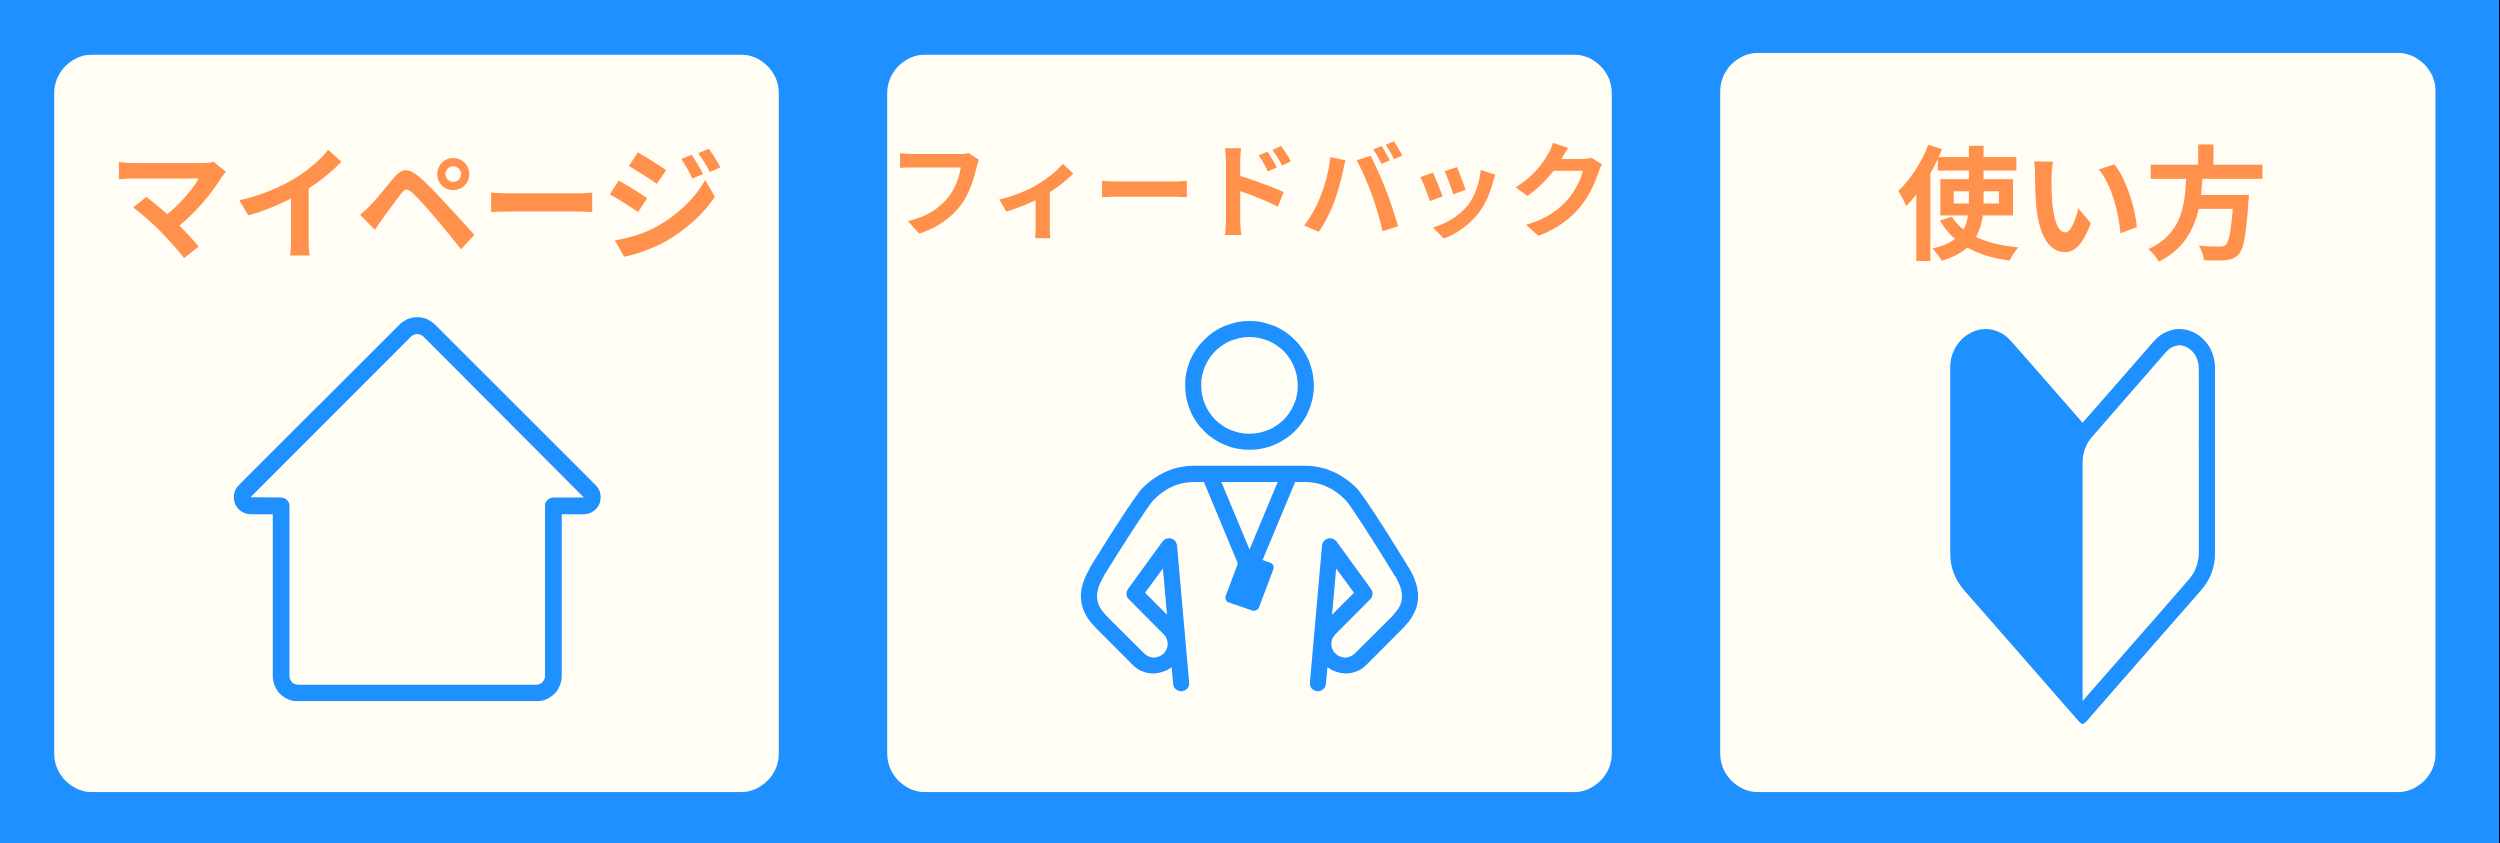
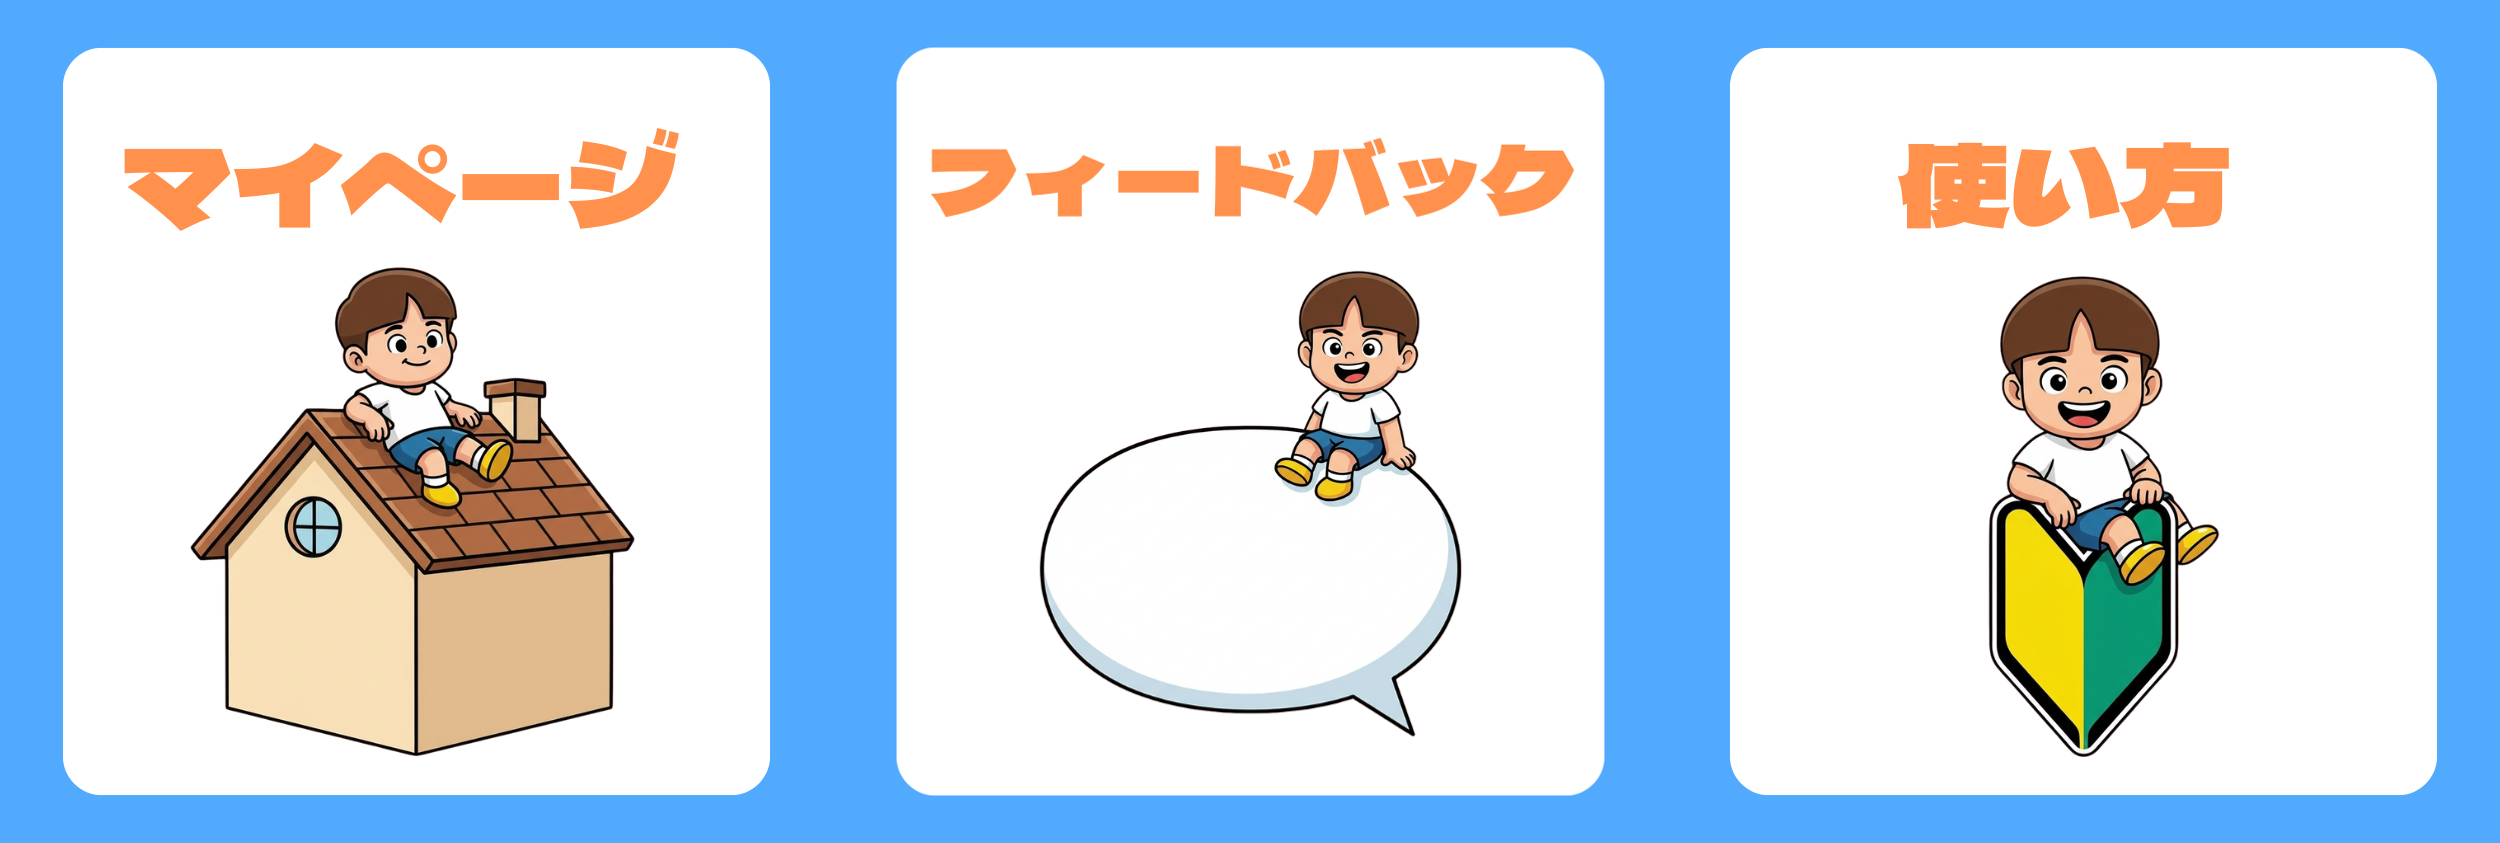
🎨 リッチメニューを新しいキャラクター画像に更新
- 3つの新しいキャラクター画像（マイページ、フィードバック、使い方）を使用
- 各ボタンサイズを正確に調整（833×843px, 834×843px, 833×843px）
- 青色のグラデーション背景を維持
- 画像生成スクリプトを追加

🤖 Generated with [Claude Code](https://claude.ai/code)

diff --git a/create-new-richmenu-with-characters.js b/create-new-richmenu-with-characters.js
@@ -1,0 +1,68 @@
+const sharp = require('sharp');
+const fs = require('fs');
+
+async function createNewRichMenuWithCharacters() {
+  try {
+    // リッチメニューのサイズ
+    const totalWidth = 2500;
+    const totalHeight = 843;
+    
+    // 各ボタンの幅（エリア設定に合わせる）
+    const button1Width = 833;  // マイページ
+    const button2Width = 834;  // フィードバック（1px多い）
+    const button3Width = 833;  // 使い方
+
+    console.log('📐 新しいリッチメニューサイズ:', { totalWidth, totalHeight });
+    console.log('📏 各ボタン幅:', { button1Width, button2Width, button3Width });
+
+    // 新しいキャラクター画像を適切なサイズでリサイズ
+    const button1Buffer = await sharp('/Users/toshimitsukotarou/Downloads/マイページ (6)/1.png')
+      .resize(button1Width, totalHeight, { fit: 'cover', position: 'center' })
+      .png()
+      .toBuffer();
+
+    const button2Buffer = await sharp('/Users/toshimitsukotarou/Downloads/マイページ (6)/2.png')
+      .resize(button2Width, totalHeight, { fit: 'cover', position: 'center' })
+      .png()
+      .toBuffer();
+
+    const button3Buffer = await sharp('/Users/toshimitsukotarou/Downloads/マイページ (6)/3.png')
+      .resize(button3Width, totalHeight, { fit: 'cover', position: 'center' })
+      .png()
+      .toBuffer();
+
+    // 背景画像を作成（青色のグラデーション）
+    const background = sharp({
+      create: {
+        width: totalWidth,
+        height: totalHeight,
+        channels: 3,
+        background: { r: 76, g: 175, b: 255 } // 青色背景
+      }
+    });
+
+    // 3つの画像を横並びに配置
+    const result = await background
+      .composite([
+        { input: button1Buffer, left: 0, top: 0 },
+        { input: button2Buffer, left: button1Width, top: 0 },
+        { input: button3Buffer, left: button1Width + button2Width, top: 0 }
+      ])
+      .png()
+      .toBuffer();
+
+    // 結果を保存
+    fs.writeFileSync('./rich-menu-new-characters.png', result);
+    
+    console.log('✅ 新しいキャラクター画像でリッチメニューを作成しました: rich-menu-new-characters.png');
+    console.log('📊 構成:');
+    console.log('  1. マイページ (家の上の子供) - x=0');
+    console.log('  2. フィードバック (吹き出しの上の子供) - x=' + button1Width);
+    console.log('  3. 使い方 (盾の上の子供) - x=' + (button1Width + button2Width));
+
+  } catch (error) {
+    console.error('❌ エラー:', error);
+  }
+}
+
+createNewRichMenuWithCharacters();
